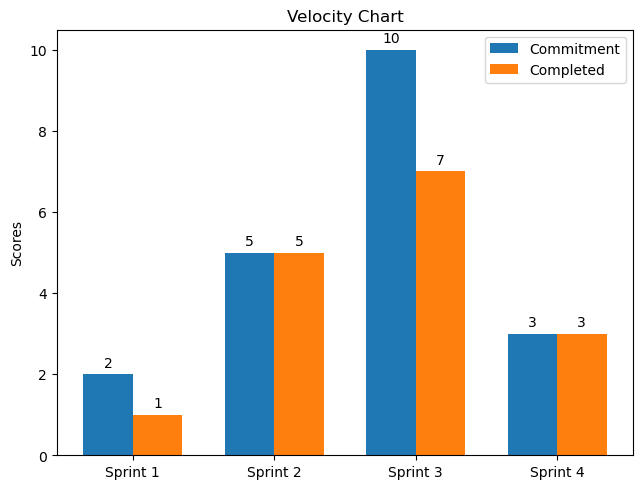
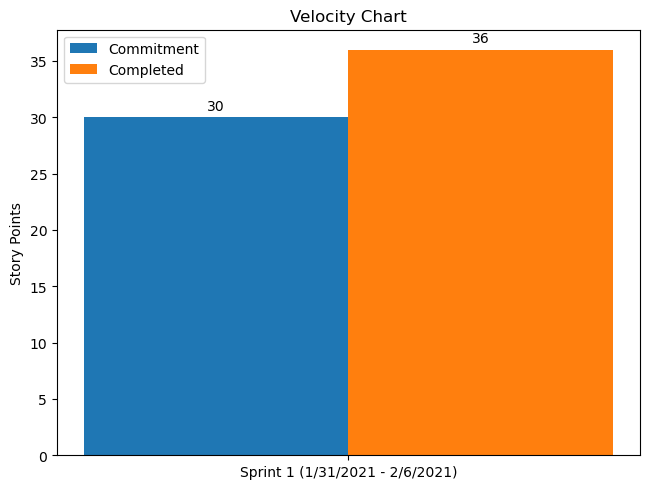
charts: Revise chart formatting
Based on what was learned about how burndown charts are *actually*
supposed to look, the scripts here should now more closely reflect this.

diff --git a/charts/velocity.py b/charts/velocity.py
@@ -1,64 +1,61 @@
+import os
+
 import matplotlib.pyplot as plt
 import numpy as np
-from sprint import Sprint
 
 
-class VelocityChart:
-    def __init__(self):
-        self.sprints = []
+def autolabel(rects, ax):
+    # Credit to: https://matplotlib.org/3.1.1/gallery/lines_bars_and_markers/barchart.html
+    # Attach a text label above each bar in *rects*, displaying its height.
 
-    def addSprint(self, name, commitment, completed):
-        self.sprints.append(Sprint(name, commitment, completed))
-
-    def makeGraph(self):
-        label_locations = np.arange(len(self.sprints))
-        bar_width = 0.35
-
-        commitment_values = []
-        completed_values = []
-        for sprint in self.sprints:
-            commitment_values.append(sprint.commitment)
-            completed_values.append(sprint.completed)
-
-        fig, ax = plt.subplots()
-        commitment_bar = ax.bar(
-            label_locations - bar_width / 2,
-            commitment_values,
-            bar_width,
-            label="Commitment",
-        )
-        completed_bar = ax.bar(
-            label_locations + bar_width / 2,
-            completed_values,
-            bar_width,
-            label="Completed",
+    for rect in rects:
+        height = rect.get_height()
+        ax.annotate(
+            "{}".format(height),
+            xy=(rect.get_x() + rect.get_width() / 2, height),
+            xytext=(0, 3),  # 3 points vertical offset
+            textcoords="offset points",
+            ha="center",
+            va="bottom",
         )
 
-        """ Credit to: https://matplotlib.org/3.1.1/gallery/lines_bars_and_markers/barchart.html"""
 
-        def autolabel(rects):
-            """Attach a text label above each bar in *rects*, displaying its height."""
-            for rect in rects:
-                height = rect.get_height()
-                ax.annotate(
-                    "{}".format(height),
-                    xy=(rect.get_x() + rect.get_width() / 2, height),
-                    xytext=(0, 3),  # 3 points vertical offset
-                    textcoords="offset points",
-                    ha="center",
-                    va="bottom",
-                )
+def create_velocity_chart(sprints):
+    label_locations = np.arange(len(sprints))
+    bar_width = 0.35
 
-        autolabel(commitment_bar)
-        autolabel(completed_bar)
+    commitment_values = [s.commitment for s in sprints]
+    completed_values = [s.total_completed() for s in sprints]
 
-        fig.tight_layout()
+    fig, ax = plt.subplots()
+    commitment_bar = ax.bar(
+        label_locations - bar_width / 2,
+        commitment_values,
+        bar_width,
+        label="Commitment",
+    )
+    completed_bar = ax.bar(
+        label_locations + bar_width / 2,
+        completed_values,
+        bar_width,
+        label="Completed",
+    )
 
-        ax.set_ylabel("Scores")
-        ax.set_title("Velocity Chart")
-        ax.set_xticks(label_locations)
-        ax.set_xticklabels([sprint.name for sprint in self.sprints])
-        ax.legend()
+    autolabel(commitment_bar, ax)
+    autolabel(completed_bar, ax)
 
-        plt.savefig("exported/velocity_chart.png", bbox_inches="tight")
-        plt.close()
+    fig.tight_layout()
+
+    ax.set_ylabel("Story Points")
+    ax.set_title(f"Velocity Chart")
+    ax.set_xticks(label_locations)
+    ax.set_xticklabels([sprint.name for sprint in sprints])
+    ax.legend()
+
+    if not os.path.exists("exported"):
+        os.makedirs("exported")
+    plt.savefig("exported/velocity_chart.png", bbox_inches="tight")
+
+    plt.close()
+
+    print("Saved velocity_chart.png")

diff --git a/charts/burndown.py b/charts/burndown.py
@@ -1,53 +1,62 @@
+import os
+import re
+
 import matplotlib.pyplot as plt
 import numpy as np
-from sprint import Sprint
 
 
-class BurndownChart:
-    def __init__(self, total_points):
-        self.sprints = []
-        self.total_points = total_points
+def format_name(name):
+    result = re.sub("\s*\([^)]*\)", "", name)
+    result = result.replace(" ", "_")
+    result = result.lower()
+    return result
 
-    def addSprint(self, name, commitment, completed):
-        self.sprints.append(Sprint(name, commitment, completed))
 
-    def makeGraph(self):
-        total_sprints = 8
-        fig, ax = plt.subplots()
+def create_burndown_chart(sprint):
+    fig, ax = plt.subplots()
 
-        x = [i for i in range(total_sprints + 1)]
+    x = [i for i in range(sprint.days + 1)]
 
-        # Generate actual burndown graph
-        temp_points = self.total_points
-        points_left = []
-        points_left.append(temp_points)
-        for sprint in self.sprints:
-            temp_points -= sprint.completed
-            points_left.append(temp_points)
-        plt.plot(
-            x[: len(points_left)],
-            points_left,
-            color="red",
-            marker="o",
-            label="Remaining effort",
-        )
+    # Generate actual burndown chart
+    points = sprint.commitment
+    actual_burndown = []
+    actual_burndown.append(points)
+    for day in sprint.completed:
+        points -= day
+        if (points < 0):
+            points = 0
+        actual_burndown.append(points)
+    plt.plot(
+        x[: len(sprint.completed) + 1],
+        actual_burndown,
+        color="red",
+        marker="o",
+        label="Remaining effort",
+    )
 
-        # Generate ideal burndown graph
-        temp_points = self.total_points
-        points_left = []
-        points_left.append(temp_points)
-        average_work = self.total_points / total_sprints
-        for index in range(total_sprints):
-            temp_points -= average_work
-            points_left.append(temp_points)
-        plt.plot(x, points_left, color="blue", marker="", label="Ideal burndown")
+    # Generate ideal burndown chart
+    points = sprint.commitment
+    ideal_burndown = []
+    ideal_burndown.append(points)
+    average_work = sprint.commitment / sprint.days
+    for index in range(sprint.days):
+        points -= average_work
+        ideal_burndown.append(points)
+    plt.plot(x, ideal_burndown, color="blue", marker="", label="Ideal burndown")
 
-        plt.title("Burndown Chart")
-        plt.xlabel("Sprint")
-        ax.set_xticks(x)
-        plt.ylabel("Estimated points remaining")
-        ax.set_yticks(np.arange(0, self.total_points + 15, 10))
-        ax.legend()
-        plt.grid(True)
-        plt.savefig("exported/burndown_chart.png", bbox_inches="tight")
-        plt.close()
+    plt.title(f"Burndown Chart - {sprint.name}")
+    plt.xlabel("Day")
+    ax.set_xticks(x)
+    plt.ylabel("Story Points")
+    ax.set_yticks(np.arange(0, sprint.commitment + 15, 10))
+    ax.legend()
+    plt.grid(True)
+
+    name = format_name(sprint.name)
+    if not os.path.exists("exported"):
+        os.makedirs("exported")
+    plt.savefig(f"exported/burndown_chart_{name}.png", bbox_inches="tight")
+
+    plt.close()
+
+    print(f"Saved burndown_chart_{name}.png")

diff --git a/charts/main.py b/charts/main.py
@@ -1,30 +1,30 @@
-from velocity import VelocityChart
-from burndown import BurndownChart
+from burndown import create_burndown_chart
+from velocity import create_velocity_chart
 
 
-class Charts:
-    def __init__(self, total_points):
-        self.velocity_chart = VelocityChart()
-        self.burndown_chart = BurndownChart(total_points)
+class Sprint:
+    def __init__(self, name, days, commitment, completed):
+        self.name = name
+        self.days = days
+        self.commitment = commitment
+        self.completed = completed
 
-    def addSprint(self, name, commitment, completed):
-        self.velocity_chart.addSprint(name, commitment, completed)
-        self.burndown_chart.addSprint(name, commitment, completed)
+    def create_charts(self):
+        create_burndown_chart(self)
+        create_velocity_chart(self)
 
-    def makeGraphs(self):
-        self.velocity_chart.makeGraph()
-        self.burndown_chart.makeGraph()
+    def total_completed(self):
+        return sum(self.completed)
 
 
 def main():
-    total_points = 100
-    charts = Charts(total_points)
+    sprint1_name = "Sprint 1 (1/31/2021 - 2/6/2021)"
+    sprint1_completion = [0, 0, 0, 12, 0, 17, 7]
+    sprint1 = Sprint(sprint1_name, days=7, commitment=30, completed=sprint1_completion)
+    create_burndown_chart(sprint1)
 
-    charts.addSprint("Sprint 1", commitment=2, completed=1)
-    charts.addSprint("Sprint 2", commitment=5, completed=5)
-    charts.addSprint("Sprint 3", commitment=10, completed=7)
-    charts.addSprint("Sprint 4", commitment=3, completed=3)
-    charts.makeGraphs()
+    sprints = [sprint1]
+    create_velocity_chart(sprints)
 
 
 if __name__ == "__main__":

diff --git a/charts/README.md b/charts/README.md
@@ -8,5 +8,5 @@ To generate charts, simply run `main.py`:
 $ python3 main.py
 ```
 
-<img src="exported/burndown_chart.png" height="400px" alt="Burndown Chart">
+<img src="exported/burndown_chart_sprint_1.png" height="400px" alt="Burndown Chart - Sprint 1">
 <img src="exported/velocity_chart.png" height="400px" alt="Velocity Chart">
